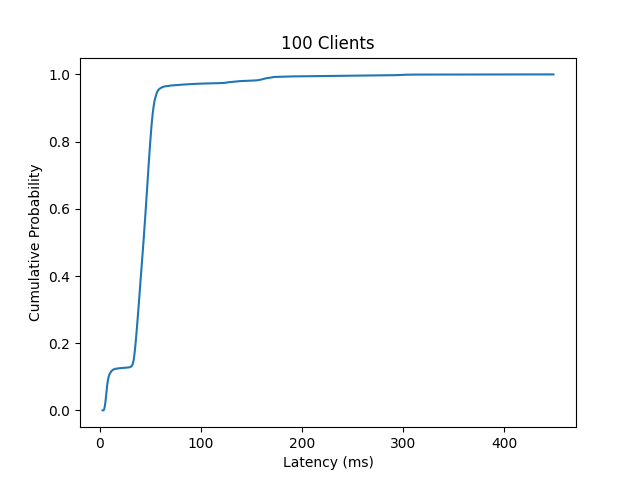
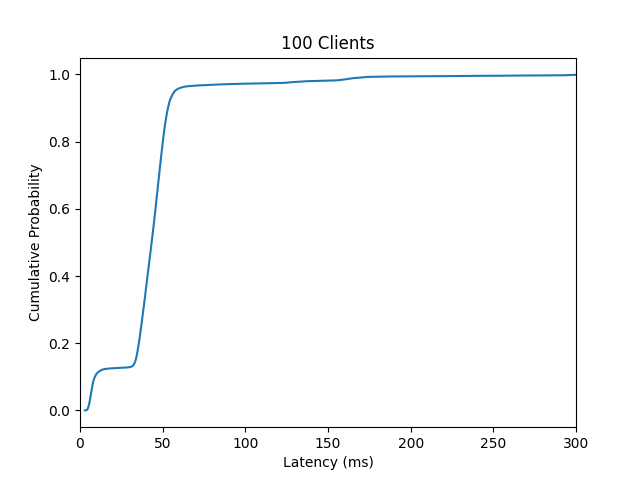
:milky_way: Updated Graphs

diff --git a/server/plot/cdf.py b/server/plot/cdf.py
@@ -6,7 +6,7 @@ import seaborn as sns
 from numpy import hstack
 from statsmodels.distributions.empirical_distribution import ECDF
 
-path = 'data_tcp/50/latencyViewer*'
+path = 'data_udp/50/latencyViewer*'
 files=glob.glob(path)   
 total = 0
 n = 0
@@ -41,9 +41,10 @@ ecdf = ECDF(sample)
 pyplot.plot(ecdf.x,ecdf.y)
 pyplot.xlabel("Latency (ms)")
 pyplot.title("50 Clients")
+pyplot.xlim(0,300)
 pyplot.ylabel("Cumulative Probability")
 # pyplot.show()
-pyplot.savefig('TCP_50.png')
+pyplot.savefig('UDP_50.png')
 print(ve)
 print(n)
 print(total*1000/n)
